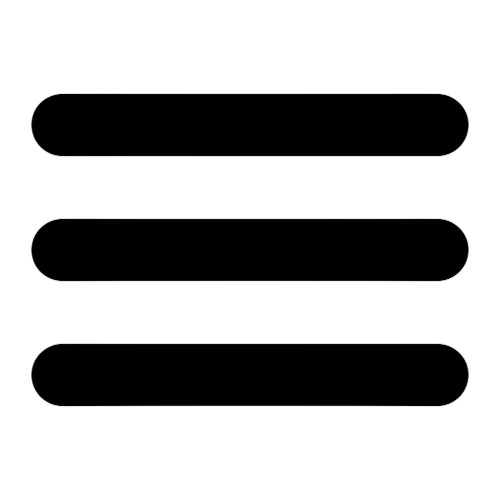
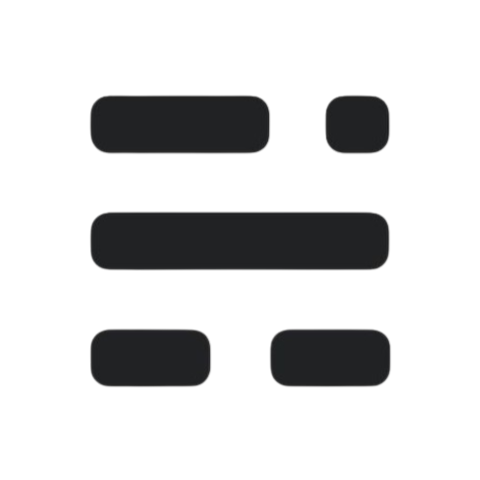
done with the menu btn, starting album page

diff --git a/style.css b/style.css
@@ -362,32 +362,83 @@ template {
   align-items: center;
   height: 80px;
   width: 100%;
-  background: rgba(255, 255, 255, 0.85) !important;
+  background-color: rgba(255, 255, 255, 0.8) !important;
   z-index: 10;
 }
 .name-logo-button{
-  padding: 0;
-  height: 50px;
-  background-color: transparent;
-  border: none;
-}
-.menu-button{
-  position: absolute;
   display: flex;
-  justify-content: center;
+  padding: 0;
+  height: 51px;
   align-items: center;
-  right: 2%;
-  width: 40px;
-  height: 40px;
-  background-color: transparent;
   border: none;
 }
 .name-logo{
   height: 50px;
 }
-.menu-logo{
-  height: 40px;
+.name-logo:hover{
+  height: 51px;
 }
+.menu{
+  position: absolute;
+  right: 2%;
+  display: inline-block;
+}
+.dropbtn{
+  display: flex;
+  padding: 0;
+  width: 50px;
+  height: 50px;
+  justify-content: center;
+  align-items: center;
+  background-color: transparent;
+  border: none;
+  cursor: pointer;
+}
+.dropbtn img{
+  width: 46px;
+  height: 46px;
+}
+.dropbtn img:hover, .dropbtn img:focus{
+  width: 50px;
+  height: 50px;
+}
+.myDropdownClass{
+  position: fixed;
+  background-color: rgba(255, 255, 255, 0.8);
+  top: 80px;
+  left: 0;
+  width: 100vw;
+  height: calc(100vh - 80px);
+  display: none;
+}
+.dropdown-content{
+  list-style-type: none;
+  display: flex;
+  flex-direction: column;
+  justify-content: center;
+  align-items: center;
+  padding: 0;
+  margin: 0;
+}
+.dropdown-content a{
+  display: flex;
+  color: black;
+  text-align: center;
+  text-decoration: none;
+  margin-top: 4.5vh;
+  padding: 12px;
+  font-size: 40px;
+  font-family: Segoe UI semibold;
+  display: block;
+}
+.menu a:hover{
+  transition: 0.1s letter-spacing, 2s opacity;
+  letter-spacing: 0.1rem;
+  font-size: 42px;
+  color: green;
+}
+.show{display: block;}
+
 #Page-Tag{
   position: fixed;
   display: flex;
@@ -844,6 +895,8 @@ template {
     margin-top: 10%;
     margin-bottom: 40px;
   }
-
 }
+
+
+
 

diff --git a/Profile_JIWOO.html b/Profile_JIWOO.html
@@ -6,11 +6,25 @@
   <title>KARD</title>
   <link rel="icon" type="image/png" href="Assets\Main_icon.png"/>
   <link rel="stylesheet" href="style.css">
-  <link href="https://fonts.googleapis.com/css2?family=Cookie&display=swap" rel="stylesheet"></head>
-<body id="Profile-Page" style="background-image: url(Assets\Profile_JOKER.png);">
+  <script src="script.js"></script>
+  <link href="https://fonts.googleapis.com/css2?family=Cookie&display=swap" rel="stylesheet">
+</head>
+<body id="Profile-Page" style="background-image: url(Assets/Profile_JOKER.png);">
   <header id="navigation-bar">
     <a class="name-logo-button" href="index.html"><img class="name-logo" src="Assets\Main_kard.png" alt="KARD"></a>
-    <button class="menu-button"><img class="menu-logo" src="Assets\Main_menu.png" alt="MENU"></button>
+    <div class="menu">
+      <button onclick="myFunction()" class="dropbtn"><img class="dropbtn" src="Assets\Main_menu.png" alt="MENU"></button>
+      <div id="myDropdown" class="myDropdownClass">
+        <ul class="dropdown-content">
+          <li><a href="index.html">Home</a></li>
+          <li><a href="Profile_JSEPH.html">Profile</a></li>
+          <li><a href="Discography1.html">Discography</a></li>
+          <li><a href="">Schedule</a></li>
+          <li><a href="">Gallery</a></li>
+          <li><a href="">Shop</a></li>
+        </ul>
+      </div>
+    </div>
   </header>
   <div id="Page-Tag">
     <div class="Page-Tag">

diff --git a/Profile_SOMIN.html b/Profile_SOMIN.html
@@ -6,11 +6,25 @@
   <title>KARD</title>
   <link rel="icon" type="image/png" href="Assets\Main_icon.png"/>
   <link rel="stylesheet" href="style.css">
-  <link href="https://fonts.googleapis.com/css2?family=Cookie&display=swap" rel="stylesheet"></head>
-<body id="Profile-Page" style="background-image: url(Assets\Profile_JOKER.png);">
+  <script src="script.js"></script>
+  <link href="https://fonts.googleapis.com/css2?family=Cookie&display=swap" rel="stylesheet">
+</head>
+<body id="Profile-Page" style="background-image: url(Assets/Profile_JOKER.png);">
   <header id="navigation-bar">
     <a class="name-logo-button" href="index.html"><img class="name-logo" src="Assets\Main_kard.png" alt="KARD"></a>
-    <button class="menu-button"><img class="menu-logo" src="Assets\Main_menu.png" alt="MENU"></button>
+    <div class="menu">
+      <button onclick="myFunction()" class="dropbtn"><img class="dropbtn" src="Assets\Main_menu.png" alt="MENU"></button>
+      <div id="myDropdown" class="myDropdownClass">
+        <ul class="dropdown-content">
+          <li><a href="index.html">Home</a></li>
+          <li><a href="Profile_JSEPH.html">Profile</a></li>
+          <li><a href="Discography1.html">Discography</a></li>
+          <li><a href="">Schedule</a></li>
+          <li><a href="">Gallery</a></li>
+          <li><a href="">Shop</a></li>
+        </ul>
+      </div>
+    </div>
   </header>
   <div id="Page-Tag">
     <div class="Page-Tag">

diff --git a/Profile_BM.html b/Profile_BM.html
@@ -6,11 +6,25 @@
   <title>KARD</title>
   <link rel="icon" type="image/png" href="Assets\Main_icon.png"/>
   <link rel="stylesheet" href="style.css">
-  <link href="https://fonts.googleapis.com/css2?family=Cookie&display=swap" rel="stylesheet"></head>
-<body id="Profile-Page" style="background-image: url(Assets\Profile_KING.png);">
+  <script src="script.js"></script>
+  <link href="https://fonts.googleapis.com/css2?family=Cookie&display=swap" rel="stylesheet">
+</head>
+<body id="Profile-Page" style="background-image: url(Assets/Profile_KING.png);">
   <header id="navigation-bar">
     <a class="name-logo-button" href="index.html"><img class="name-logo" src="Assets\Main_kard.png" alt="KARD"></a>
-    <button class="menu-button"><img class="menu-logo" src="Assets\Main_menu.png" alt="MENU"></button>
+    <div class="menu">
+      <button onclick="myFunction()" class="dropbtn"><img class="dropbtn" src="Assets\Main_menu.png" alt="MENU"></button>
+      <div id="myDropdown" class="myDropdownClass">
+        <ul class="dropdown-content">
+          <li><a href="index.html">Home</a></li>
+          <li><a href="Profile_JSEPH.html">Profile</a></li>
+          <li><a href="Discography1.html">Discography</a></li>
+          <li><a href="">Schedule</a></li>
+          <li><a href="">Gallery</a></li>
+          <li><a href="">Shop</a></li>
+        </ul>
+      </div>
+    </div>
   </header>
   <div id="Page-Tag">
     <div class="Page-Tag">

diff --git a/Profile_JSEPH.html b/Profile_JSEPH.html
@@ -6,12 +6,25 @@
   <title>KARD</title>
   <link rel="icon" type="image/png" href="Assets\Main_icon.png"/>
   <link rel="stylesheet" href="style.css">
+  <script src="script.js"></script>
   <link href="https://fonts.googleapis.com/css2?family=Cookie&display=swap" rel="stylesheet">
 </head>
-<body id="Profile-Page" style="background-image: url(Assets\Profile_ACE.png);">
+<body id="Profile-Page" style="background-image: url(Assets/Profile_ACE.png);">
   <header id="navigation-bar">
     <a class="name-logo-button" href="index.html"><img class="name-logo" src="Assets\Main_kard.png" alt="KARD"></a>
-    <button class="menu-button"><img class="menu-logo" src="Assets\Main_menu.png" alt="MENU"></button>
+    <div class="menu">
+      <button onclick="myFunction()" class="dropbtn"><img class="dropbtn" src="Assets\Main_menu.png" alt="MENU"></button>
+      <div id="myDropdown" class="myDropdownClass">
+        <ul class="dropdown-content">
+          <li><a href="index.html">Home</a></li>
+          <li><a href="Profile_JSEPH.html">Profile</a></li>
+          <li><a href="Discography1.html">Discography</a></li>
+          <li><a href="">Schedule</a></li>
+          <li><a href="">Gallery</a></li>
+          <li><a href="">Shop</a></li>
+        </ul>
+      </div>
+    </div>
   </header>
   <div id="Page-Tag">
     <div class="Page-Tag">

diff --git a/Discography1.html b/Discography1.html
@@ -6,13 +6,25 @@
   <title>KARD</title>
   <link rel="icon" type="image/png" href="Assets\Main_icon.png"/>
   <link rel="stylesheet" href="style.css">
-  <link rel="javasc" href="">
+  <script src="script.js"></script>
   <link href="https://fonts.googleapis.com/css2?family=Cookie&display=swap" rel="stylesheet">
 </head>
 <body id="Discography-Page">
   <header id="navigation-bar">
     <a class="name-logo-button" href="index.html"><img class="name-logo" src="Assets\Main_kard.png" alt="KARD"></a>
-    <button class="menu-button"><img class="menu-logo" src="Assets\Main_menu.png" alt="MENU"></button>
+    <div class="menu">
+      <button onclick="myFunction()" class="dropbtn"><img class="dropbtn" src="Assets\Main_menu.png" alt="MENU"></button>
+      <div id="myDropdown" class="myDropdownClass">
+        <ul class="dropdown-content">
+          <li><a href="index.html">Home</a></li>
+          <li><a href="Profile_JSEPH.html">Profile</a></li>
+          <li><a href="Discography1.html">Discography</a></li>
+          <li><a href="">Schedule</a></li>
+          <li><a href="">Gallery</a></li>
+          <li><a href="">Shop</a></li>
+        </ul>
+      </div>
+    </div>
   </header>
   <div id="Page-Tag">
     <div class="Page-Tag">

diff --git a/Discography2.html b/Discography2.html
@@ -6,12 +6,25 @@
   <title>KARD</title>
   <link rel="icon" type="image/png" href="Assets\Main_icon.png"/>
   <link rel="stylesheet" href="style.css">
+  <script src="script.js"></script>
   <link href="https://fonts.googleapis.com/css2?family=Cookie&display=swap" rel="stylesheet">
 </head>
 <body id="Discography-Page">
   <header id="navigation-bar">
     <a class="name-logo-button" href="index.html"><img class="name-logo" src="Assets\Main_kard.png" alt="KARD"></a>
-    <button class="menu-button"><img class="menu-logo" src="Assets\Main_menu.png" alt="MENU"></button>
+    <div class="menu">
+      <button onclick="myFunction()" class="dropbtn"><img class="dropbtn" src="Assets\Main_menu.png" alt="MENU"></button>
+      <div id="myDropdown" class="myDropdownClass">
+        <ul class="dropdown-content">
+          <li><a href="index.html">Home</a></li>
+          <li><a href="Profile_JSEPH.html">Profile</a></li>
+          <li><a href="Discography1.html">Discography</a></li>
+          <li><a href="">Schedule</a></li>
+          <li><a href="">Gallery</a></li>
+          <li><a href="">Shop</a></li>
+        </ul>
+      </div>
+    </div>
   </header>
   <div id="Page-Tag">
     <div class="Page-Tag">

diff --git a/index.html b/index.html
@@ -6,11 +6,24 @@
   <title>KARD</title>
   <link rel="icon" type="image/png" href="Assets\Main_icon.png"/>
   <link rel="stylesheet" href="style.css">
+  <script src="script.js"></script>
 </head>
 <body id="Home-Page">
   <header id="navigation-bar">
     <a class="name-logo-button" href="index.html"><img class="name-logo" src="Assets\Main_kard.png" alt="KARD"></a>
-    <button class="menu-button"><img class="menu-logo" src="Assets\Main_menu.png" alt="MENU"></button>
+    <div class="menu">
+      <button onclick="myFunction()" class="dropbtn"><img class="dropbtn" src="Assets\Main_menu.png" alt="MENU"></button>
+      <div id="myDropdown" class="myDropdownClass">
+        <ul class="dropdown-content">
+          <li><a href="index.html">Home</a></li>
+          <li><a href="Profile_JSEPH.html">Profile</a></li>
+          <li><a href="Discography1.html">Discography</a></li>
+          <li><a href="">Schedule</a></li>
+          <li><a href="">Gallery</a></li>
+          <li><a href="">Shop</a></li>
+        </ul>
+      </div>
+    </div>
   </header>
   <section id="scroll">
     <h1 class="title">ABOUT KARD</h1>

diff --git a/script.js b/script.js
@@ -1,0 +1,28 @@
+// Function to toggle the dropdown and change the image
+function myFunction() {
+  var dropdown = document.getElementById("myDropdown");
+  dropdown.classList.toggle("show");
+
+  var buttonImg = document.querySelector('.dropbtn img');
+  if (dropdown.classList.contains("show")) {
+    // Change image when dropdown is shown
+    buttonImg.src = "Assets/Main_cross.png"; // Change the source to your desired image
+  } else {
+    // Change image when dropdown is hidden
+    buttonImg.src = "Assets/Main_menu.png"; // Reset the image to the original
+  }
+}
+
+// Close the dropdown if the user clicks outside of it
+window.onclick = function(event) {
+  if (!event.target.matches('.dropbtn')) {
+    var dropdowns = document.getElementsByClassName("dropdown-content");
+    var i;
+    for (i = 0; i < dropdowns.length; i++) {
+      var openDropdown = dropdowns[i];
+      if (openDropdown.classList.contains('show')) {
+        openDropdown.classList.remove('show');
+      }
+    }
+  }
+}
